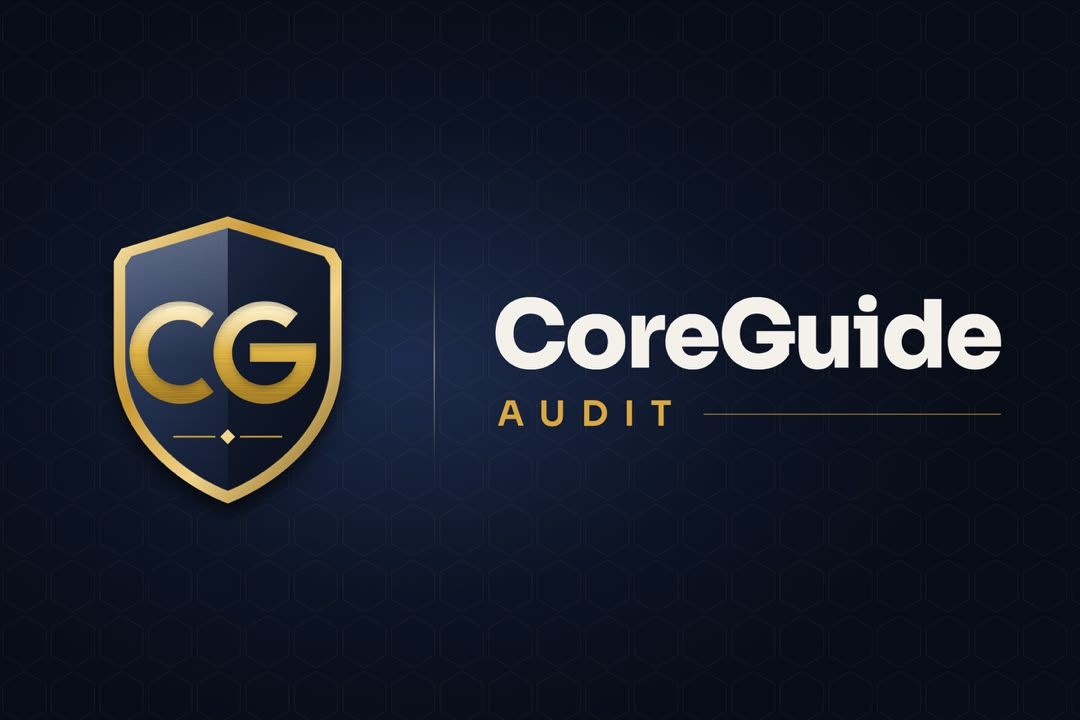
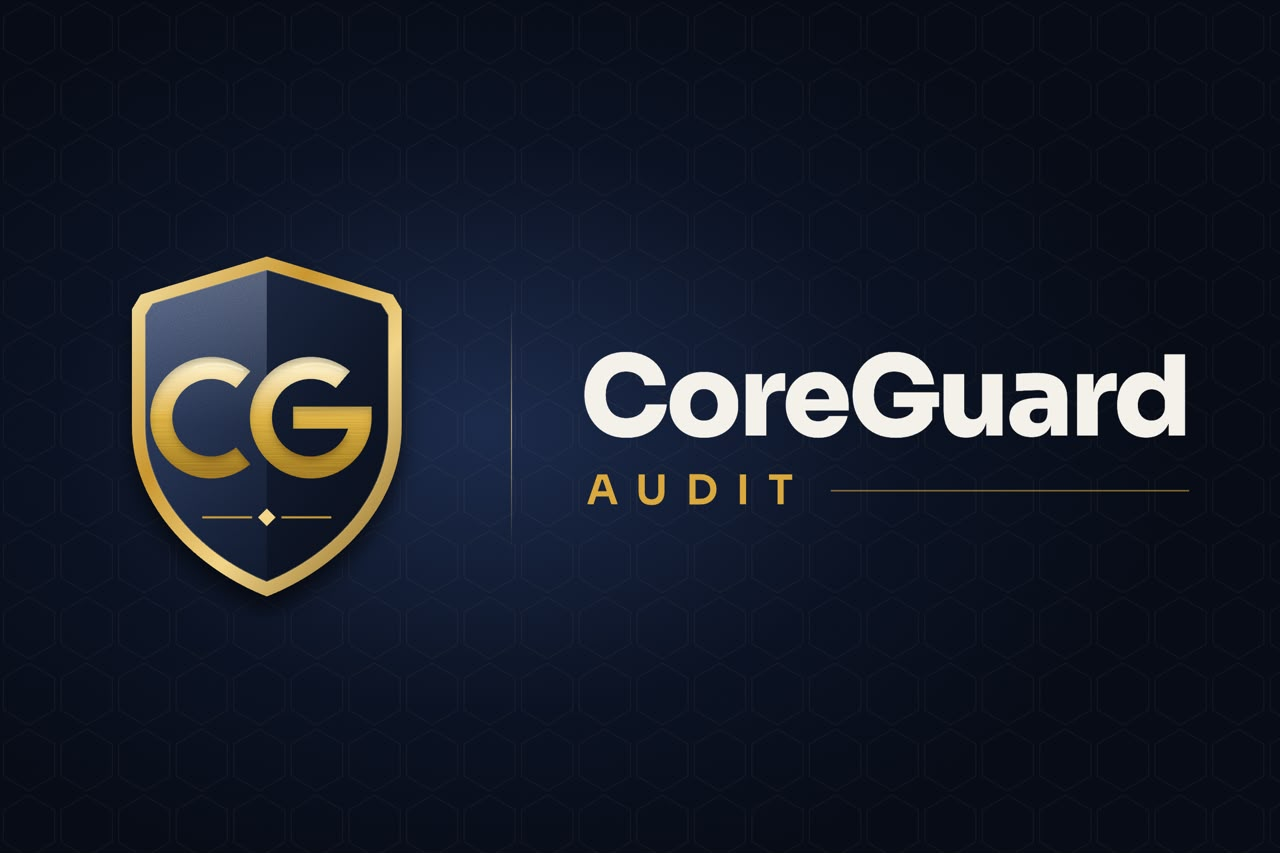
second

diff --git a/src/App.jsx b/src/App.jsx
@@ -13,6 +13,7 @@ import {
   ExternalLink,
   ChevronRight,
   CheckCircle2,
+  Toolbox,
 } from "lucide-react";
 import { useState } from "react";
 import { FaGithub } from "react-icons/fa";
@@ -37,12 +38,12 @@ const services = [
     href: "#reports",
   },
   {
-    icon: Trophy,
-    title: "Security Competitions",
+    icon: Toolbox,
+    title: "Audit Tools",
     description:
-      "Join security contests, test your skills, and earn rewards.",
-    link: "View Competitions",
-    href: "#competitions",
+      "Access open-source tools for static analysis, fuzzing, and testing smart contracts.",
+    link: "View Tools",
+    href: "#tools",
   },
   {
     icon: Bug,
@@ -227,7 +228,7 @@ function Navbar() {
     <header className="sticky top-0 z-50 border-b border-white/10 bg-[#050c1b]/95 backdrop-blur-xl">
       <nav className="mx-auto flex max-w-7xl items-center justify-between px-5 py-4 lg:px-8">
         <a href="#home" className="flex items-center gap-3">
-          <img src="guide.jpeg" alt="CoreGuide Logo" className="w-20 rounded-full" />
+          <img src="CoreGuard.jpeg" alt="CoreGuard Logo" className="w-20 rounded-full" />
         </a>
 
         <div className="hidden items-center gap-6 lg:flex">
@@ -307,12 +308,12 @@ function Hero() {
           <h1 className="text-4xl font-black leading-[1.1] tracking-tight text-white sm:text-5xl lg:text-6xl">
             Secure Your Code.
             <span className="mt-2 block text-amber-400">
-              Protect Your Protocol.
+              Audit Your Protocol.
             </span>
           </h1>
 
           <p className="mt-6 max-w-lg text-sm leading-7 text-slate-300 md:text-base">
-            CoreGuide Audit provides independent smart contract security
+            CoreGuard Audit provides independent smart contract security
             reviews, transparent audit reports, and competitive security
             research for the decentralized world.
           </p>
@@ -722,7 +723,7 @@ function Footer() {
       <div className="mx-auto grid max-w-7xl gap-10 px-5 py-12 md:grid-cols-3 lg:px-8">
         <div>
           <a href="#home" className="flex items-center gap-3">
-            <img src="/guide.jpeg" alt="CoreGuide Logo" className="w-20 rounded-full" />
+            <img src="/CoreGuide.jpeg" alt="CoreGuard Logo" className="w-20 rounded-full" />
           </a>
           <p className="mt-5 max-w-sm text-sm leading-7 text-slate-400">
             Building a safer Web3 ecosystem through smart contract
@@ -775,7 +776,7 @@ function Footer() {
 
       <div className="border-t border-white/10">
         <div className="mx-auto flex max-w-7xl flex-col justify-between gap-3 px-5 py-5 text-xs text-slate-500 sm:flex-row lg:px-8">
-          <p>© {new Date().getFullYear()} CoreGuide Audit. All rights reserved.</p>
+          <p>© {new Date().getFullYear()} CoreGuard Audit. All rights reserved.</p>
           <p>Security research. Responsible disclosure. Safer contracts.</p>
         </div>
       </div>
@@ -793,7 +794,7 @@ export default function App() {
       <Statistics />
       <WhyUs />
       <Reports />
-      <Competitions />
+      {/* <Competitions /> */}
       <Vulnerabilities />
       <Contact />
       <Footer />

diff --git a/index.html b/index.html
@@ -2,9 +2,9 @@
 <html lang="en">
   <head>
     <meta charset="UTF-8" />
-    <link rel="icon" type="image/svg+xml" href="/corelogo.jpeg" />
+    <link rel="icon" type="image/svg+xml" href="/CG.jpeg" />
     <meta name="viewport" content="width=device-width, initial-scale=1.0" />
-    <title>Coreguide</title>
+    <title>CoreGuard</title>
   </head>
   <body>
     <div id="root"></div>
